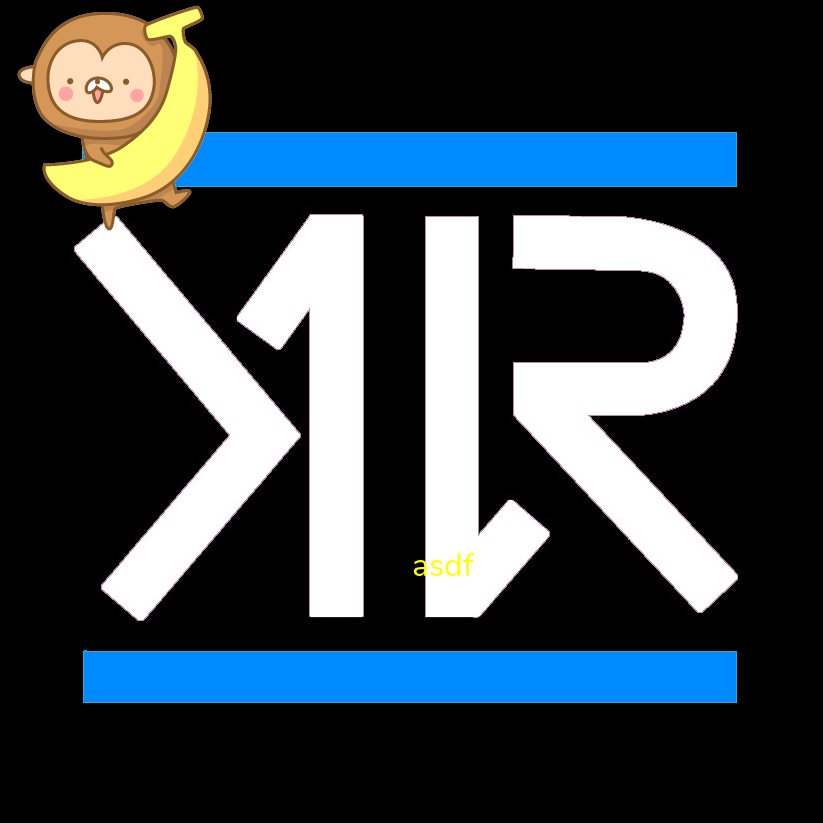
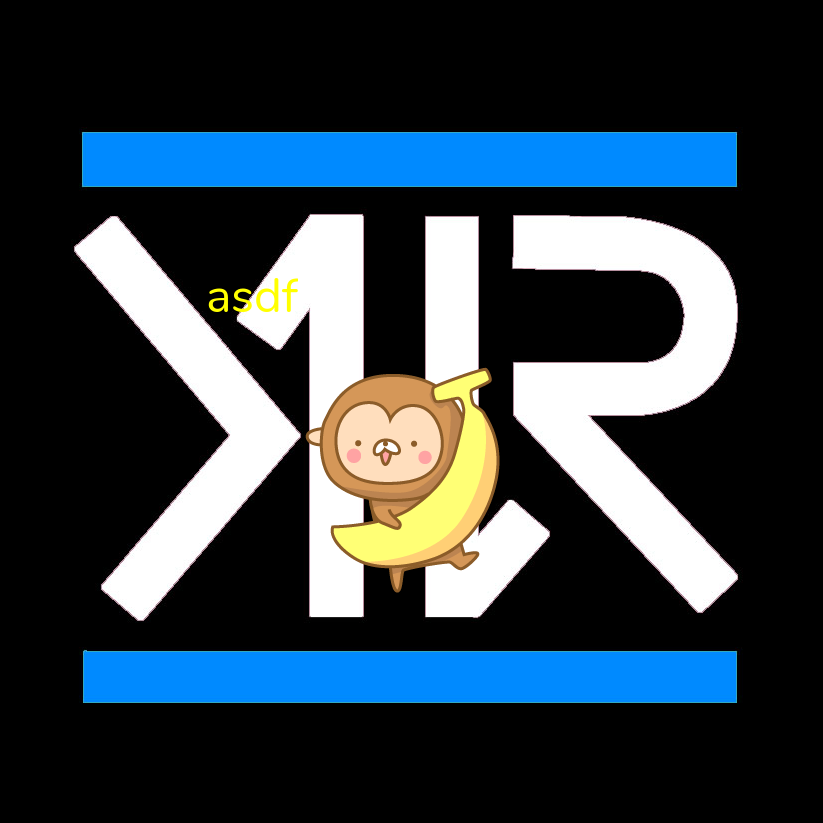
update canvas

Changed region(s): [[0.0304, 0.0, 0.2734, 0.2734], [0.3645, 0.4253, 0.6075, 0.729], [0.243, 0.3341, 0.3645, 0.3949]]

diff --git a/tkinter_2.py b/tkinter_2.py
@@ -38,15 +38,21 @@ def calculate_watermark():
     if (file_input != ''):
         #canvas.create_image(percent(wx, canvas_width),percent(wy, canvas_height), image=img_WM)
         img_pil = write_image()
-        width, height = img_pil.size
-        #img_pil.resize((100, 100))
-        img_pil.save('images/temp.png')
-        #img_tkinter = ImageTk.PhotoImage(img_pil)
-        img_tkinter = tk.PhotoImage(file='images/temp.png')
+        w1, h1 = img_pil.size
+        scale_w = canvas_width/w1
+        scale_h = canvas_height/h1
+        scale = scale_w if scale_w < scale_h else scale_h
+        width = (int)(w1*scale)
+        height = (int)(h1*scale)
+        #print('width: %f, height: %f'%(width, height))
+        img_pil = img_pil.resize((width, height))
+        #width, height = img_pil.size
+        img_pil.save('images/temp_2.png')
+        img_tkinter = tk.PhotoImage(file='images/temp_2.png')
         #rr = tk.Label(window, image=img_tkinter)
         #rr.pack()
         #img_test = tk.PhotoImage(img_tkinter)
-        canvas.create_image(  width/2, height/2, image=img_tkinter)
+        canvas.create_image(  canvas_width/2, canvas_height/2, image=img_tkinter)
 
 def saveImage():
     img = write_image()
@@ -57,7 +63,7 @@ def saveImage():
 def write_image():
     global img_input, img_WM, file_input, file_WM, text_input, tx, ty, wx, wy, canvas_width, canvas_height
     global font, img1
-    img_1 = Image.open(file_input).convert("RGBA")
+    img_1 = Image.open(file_input)
     width, height = img_1.size
     if (file_WM != ''):
         img_2 = Image.open(file_WM).convert("RGBA")
@@ -119,7 +125,7 @@ wx = 0
 wy = 0
 tx = 0
 ty = 0
-font = ImageFont.truetype('fonts/Nunito-Regular.ttf', 32)
+font = ImageFont.truetype('fonts/Nunito-Regular.ttf', 48)
 
 # 240P resolution
 canvas_width = 426
